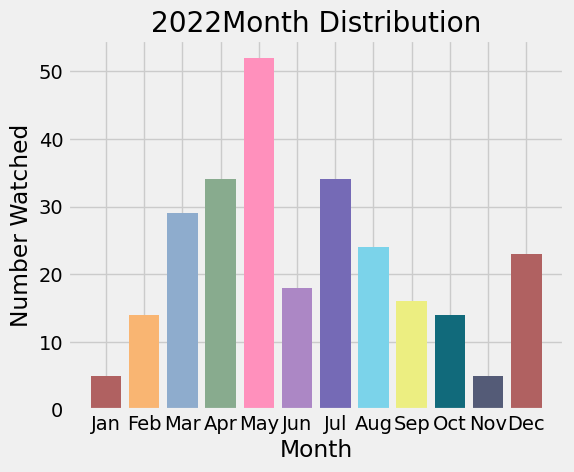
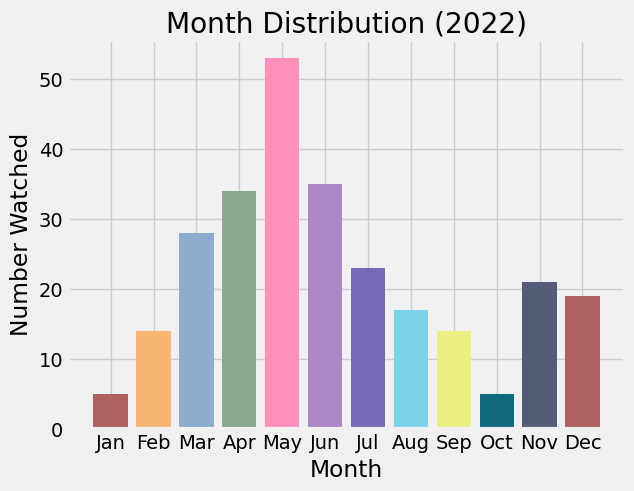
Fixed months function to remove NaN values

diff --git a/movie_results.py b/movie_results.py
@@ -37,7 +37,7 @@ pieColorsArr = [
 
 def main(inputFilePath, year):
     df = pd.read_csv(inputFilePath)
-    # scores(inputFilePath, df, year)
+    scores(inputFilePath, df, year)
     months(inputFilePath, df, year)
     # ratings(inputFilePath, df, year)
     # numOfRatings(inputFilePath, df, year)
@@ -205,7 +205,7 @@ def ratings(inputFilePath, df, year):
 
 
 def months(inputFilePath, df, year):
-    dateColumn = df["End Date"].to_numpy()
+    dateColumn = df["End Date"].dropna().to_numpy()
     monthCounter = Counter()
     for date in dateColumn:
         dateLS = date.split()
@@ -242,7 +242,7 @@ def months(inputFilePath, df, year):
 
 
 def scores(inputFilePath, df, year):
-    scoreColumn = df["Score"]
+    scoreColumn = df["Score"].dropna()
     scoreSeries = scoreColumn.value_counts()
     indexArr = scoreSeries.index.to_numpy().tolist()
     valuesArr = scoreSeries.to_numpy().tolist()
@@ -258,13 +258,15 @@ def scores(inputFilePath, df, year):
     plt.close()
 
 
-numberOfYears = 3
+numberOfYears = 2
 filePath = Path(__file__).parent.resolve()
 fileNames = []
-years = [2021, 2022, 2023]
+startYear = 2021
 for i in range(numberOfYears):
-    fileNames.append(os.path.join(filePath, f"Media_Sheet_Movies_{years[i]}.csv"))
+    curYear = startYear + i
+    print("curYear", curYear)
+    fileNames.append(os.path.join(filePath, f"Media_Sheet_Movies_{curYear}.csv"))
 
-# main(csvPath, year)
 for i in range(numberOfYears):
-    main(fileNames[i], str(years[i]))
+    curYear = startYear + i
+    main(fileNames[i], str(curYear))
